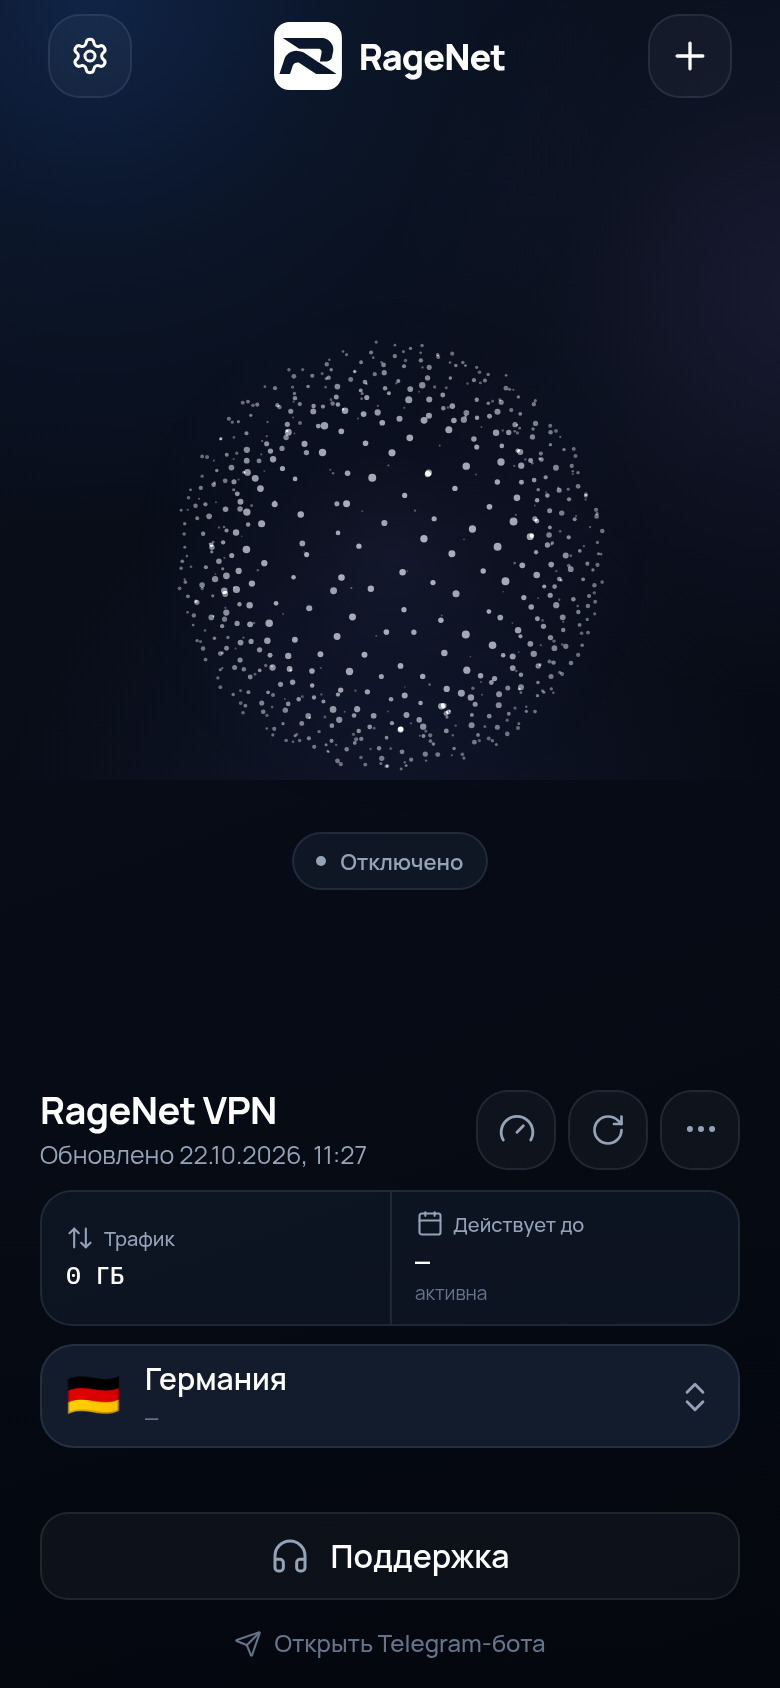
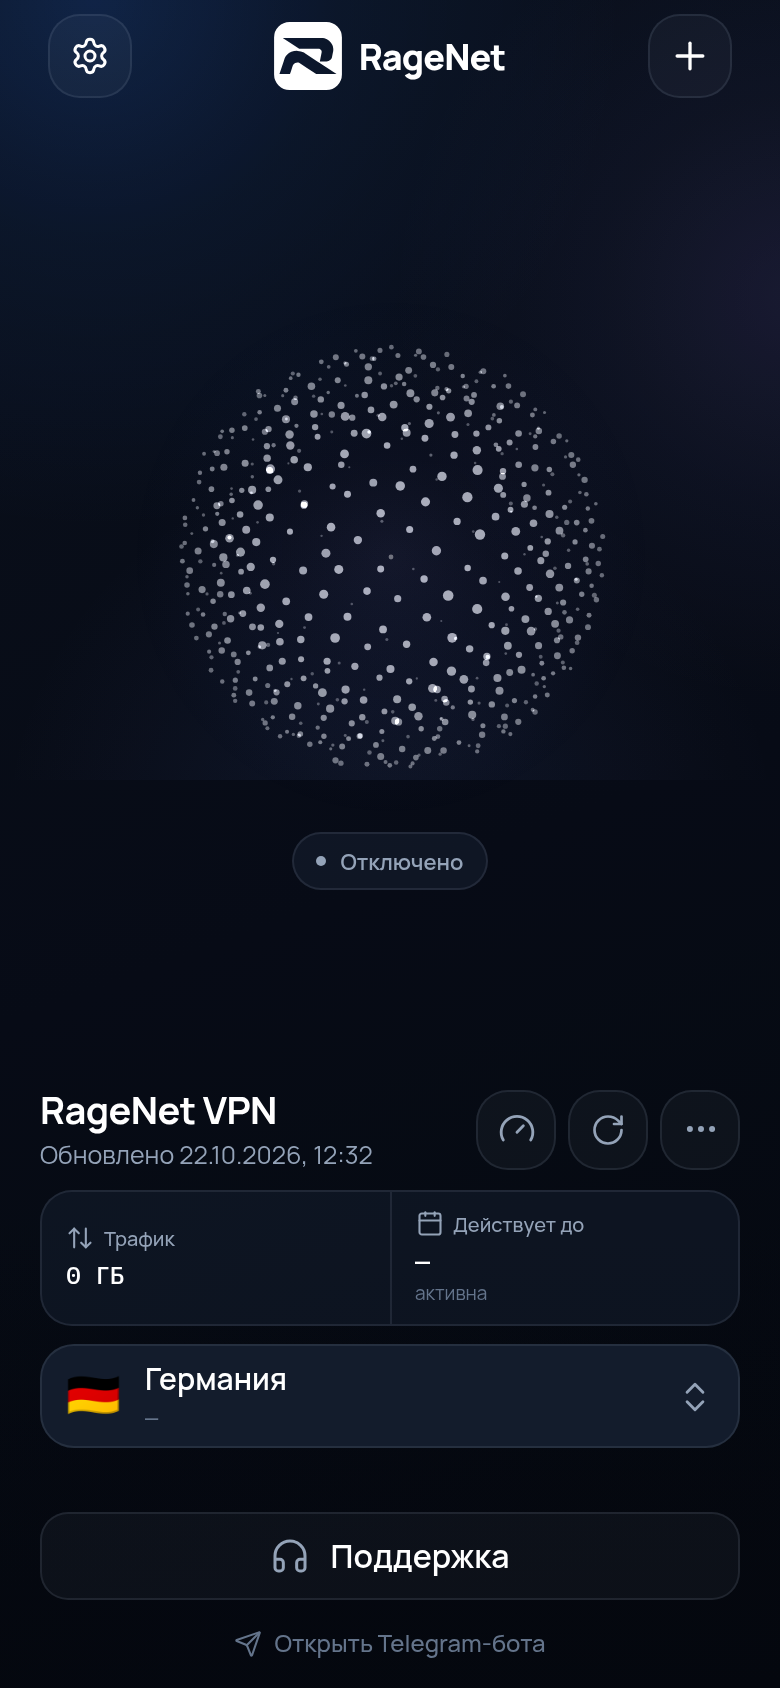
fix(ui): distinguish dragging from holding and add liquid ripples

Changed region(s): [[0.2154, 0.1848, 0.7692, 0.4621], [0.4308, 0.6777, 0.4923, 0.7085]]

diff --git a/packages/ui/src/components/particles/ParticleSphere.tsx b/packages/ui/src/components/particles/ParticleSphere.tsx
@@ -47,6 +47,10 @@ export function ParticleSphere({
   const pressing = useRef(false);
   const triggeredByHold = useRef(false);
   const pressStartedAt = useRef(0);
+  const stationaryStartedAt = useRef(0);
+  const stationaryAnchor = useRef({ x: 0, y: 0 });
+  const hasMoved = useRef(false);
+  const lastWaveAt = useRef(0);
   const holdTimer = useRef<ReturnType<typeof setTimeout> | null>(null);
   const chargeTimer = useRef<ReturnType<typeof setInterval> | null>(null);
   const tapTimer = useRef<ReturnType<typeof setTimeout> | null>(null);
@@ -149,7 +153,7 @@ export function ParticleSphere({
         if (!released) {
           released = true;
           stopHapticRamp();
-          simulation.setPointer(null, null);
+          simulation.clearPointer();
           simulation.setVibration(0);
           simulation.setGather(0);
           simulation.setBurstScale(1);
@@ -191,6 +195,15 @@ export function ParticleSphere({
     burstFrame.current = requestAnimationFrame(step);
   };
 
+  const armHold = () => {
+    if (holdTimer.current) clearTimeout(holdTimer.current);
+    holdTimer.current = setTimeout(() => {
+      if (!pressing.current || triggeredByHold.current) return;
+      triggeredByHold.current = true;
+      runBurst();
+    }, HOLD_MS);
+  };
+
   const beginPress = (event: GestureResponderEvent) => {
     if (burstStarted.current || state === 'connecting' || state === 'disconnecting') return;
     const { locationX, locationY } = event.nativeEvent;
@@ -200,6 +213,10 @@ export function ParticleSphere({
     pressing.current = true;
     triggeredByHold.current = false;
     pressStartedAt.current = Date.now();
+    stationaryStartedAt.current = Date.now();
+    stationaryAnchor.current = { x: locationX, y: locationY };
+    hasMoved.current = false;
+    lastWaveAt.current = 0;
     lastPoint.current = null;
     burstStarted.current = false;
     simulation.setGather(0);
@@ -214,20 +231,16 @@ export function ParticleSphere({
     startHapticRamp(HOLD_MS, 260);
     chargeTimer.current = setInterval(() => {
       if (!pressing.current) return;
-      const progress = Math.min(1, (Date.now() - pressStartedAt.current) / HOLD_MS);
+      const progress = Math.min(1, (Date.now() - stationaryStartedAt.current) / HOLD_MS);
       simulation.setCharge(progress);
-      simulation.setVibration(0.4 + 0.6 * progress ** 1.55);
+      simulation.setVibration(0.1 + 0.9 * progress ** 2.25);
       if (progress >= 1 || progress - reportedCharge.current >= 0.02) {
         reportedCharge.current = progress;
         onChargeProgress?.(progress);
       }
     }, 32);
 
-    holdTimer.current = setTimeout(() => {
-      if (!pressing.current || triggeredByHold.current) return;
-      triggeredByHold.current = true;
-      runBurst();
-    }, HOLD_MS);
+    armHold();
   };
 
   const updatePointer = (event: GestureResponderEvent) => {
@@ -237,12 +250,13 @@ export function ParticleSphere({
       pressing.current = false;
       triggeredByHold.current = false;
       resetCharge();
-      simulation.setPointer(null, null);
+      simulation.clearPointer();
       lastPoint.current = null;
+      hasMoved.current = true;
       return;
     }
 
-    if (!isInside(locationX, locationY)) return;
+    if (!pressing.current || !isInside(locationX, locationY)) return;
 
     const x = locationX / size;
     const y = locationY / size;
@@ -255,6 +269,29 @@ export function ParticleSphere({
       simulation.addSpin(dx, dy);
       simulation.addPointerEnergy(Math.min(0.35, pixelDistance / 45));
       if (pixelDistance > 2) dragHaptic(Math.min(1, pixelDistance / 14));
+
+      const anchorDistance = Math.hypot(
+        locationX - stationaryAnchor.current.x,
+        locationY - stationaryAnchor.current.y,
+      );
+      if (anchorDistance > 7) {
+        hasMoved.current = true;
+        stationaryAnchor.current = { x: locationX, y: locationY };
+        stationaryStartedAt.current = Date.now();
+        simulation.setCharge(0);
+        simulation.setVibration(0);
+        reportedCharge.current = 0;
+        onChargeProgress?.(0);
+        stopHapticRamp();
+        startHapticRamp(HOLD_MS, 260);
+        armHold();
+      }
+
+      const now = Date.now();
+      if (pixelDistance > 10 && now - lastWaveAt.current > 170) {
+        lastWaveAt.current = now;
+        simulation.triggerWave(x, y, 0.8);
+      }
     }
     lastPoint.current = { x, y };
   };
@@ -267,14 +304,14 @@ export function ParticleSphere({
     pressing.current = false;
     if (wasTriggered) {
       clearTimers();
-      simulation.setPointer(null, null);
+      simulation.clearPointer();
       return;
     }
     resetCharge();
-    simulation.setPointer(null, null);
+    simulation.clearPointer();
     lastPoint.current = null;
 
-    if (allowTap && !wasTriggered && elapsed <= TAP_MAX_MS) {
+    if (allowTap && !wasTriggered && !hasMoved.current && elapsed <= TAP_MAX_MS) {
       simulation.triggerWave(pressOrigin.current.x, pressOrigin.current.y);
       tapHaptic();
       // Let the wave read on the resting sphere before the state colour changes.

diff --git a/packages/particles/src/simulation.ts b/packages/particles/src/simulation.ts
@@ -57,10 +57,7 @@ export class ParticleSphereSimulation {
   private reactionTime = 0;
   private reactionStrength = 0;
   private reactionActive = false;
-  private waveAge = 0;
-  private waveX = 0.5;
-  private waveY = 0.5;
-  private waveStrength = 0;
+  private waves: { x: number; y: number; age: number; strength: number }[] = [];
   private gatherLevel = 0;
   private burstScale = 1;
   private vibrationLevel = 0;
@@ -209,10 +206,20 @@ export class ParticleSphereSimulation {
 
   /** Start a liquid ripple from a normalized point on the sphere. */
   triggerWave(x: number, y: number, strength = 1): void {
-    this.waveX = clamp(x, 0, 1);
-    this.waveY = clamp(y, 0, 1);
-    this.waveAge = 0;
-    this.waveStrength = clamp(strength, 0, 1.4);
+    this.waves.push({
+      x: clamp(x, 0, 1),
+      y: clamp(y, 0, 1),
+      age: 0,
+      strength: clamp(strength, 0, 1.4),
+    });
+    if (this.waves.length > 5) this.waves.shift();
+  }
+
+  /** Stop the old tap impression immediately when a finger leaves the surface. */
+  clearPointer(): void {
+    this.pointerTargetStrength = 0;
+    this.pointerStrength = 0;
+    this.pointerEnergy = 0;
   }
 
   setMode(mode: ParticleMode): void {
@@ -222,12 +229,8 @@ export class ParticleSphereSimulation {
   update(dt: number): void {
     const step = clamp(dt, 0, 0.05);
     this.time += step;
-    if (this.waveStrength > 0) {
-      this.waveAge += step;
-      if (this.waveAge >= 2.2) {
-        this.waveStrength = 0;
-      }
-    }
+    for (const wave of this.waves) wave.age += step;
+    this.waves = this.waves.filter((wave) => wave.age < 2.2);
     this.pointerStrength +=
       (this.pointerTargetStrength - this.pointerStrength) * Math.min(1, step * 14);
     this.pointerEnergy *= Math.exp(-5 * step);
@@ -350,12 +353,13 @@ export class ParticleSphereSimulation {
 
   /** Current wave data for a subtle one-front renderer overlay. */
   getWave(): { x: number; y: number; progress: number; strength: number } | null {
-    if (this.waveStrength <= 0.001) return null;
+    const wave = this.waves[this.waves.length - 1];
+    if (!wave) return null;
     return {
-      x: this.waveX,
-      y: this.waveY,
-      progress: clamp(this.waveAge / 2.2, 0, 1),
-      strength: this.waveStrength,
+      x: wave.x,
+      y: wave.y,
+      progress: clamp(wave.age / 2.2, 0, 1),
+      strength: wave.strength,
     };
   }
 
@@ -420,27 +424,28 @@ export class ParticleSphereSimulation {
       }
 
       let waveBoost = 0;
-      if (this.waveStrength > 0) {
-        const waveOriginX = center + (this.waveX * 2 - 1) * radius;
-        const waveOriginY = center + (this.waveY * 2 - 1) * radius;
+      for (const wave of this.waves) {
+        const waveOriginX = center + (wave.x * 2 - 1) * radius;
+        const waveOriginY = center + (wave.y * 2 - 1) * radius;
         const dx = screenX - waveOriginX;
         const dy = screenY - waveOriginY;
         const distance = Math.max(0.001, Math.hypot(dx, dy));
-        const progress = clamp(this.waveAge / 2.2, 0, 1);
+        const progress = clamp(wave.age / 2.2, 0, 1);
         const front = progress * size * 1.22;
-        const thickness = size * 0.12 + this.waveAge * size * 0.012;
+        const thickness = size * 0.12 + wave.age * size * 0.012;
         const angle = Math.atan2(dy, dx);
         const organicFront =
           1 +
           Math.sin(angle * 3.1 + this.time * 0.8) * 0.035 +
           Math.sin(angle * 6.7 - this.time * 0.6) * 0.018;
         const gaussian = Math.exp(-(((distance - front * organicFront) / thickness) ** 2));
-        const envelope = Math.min(1, this.waveAge / 0.28) * (1 - progress) ** 1.5;
-        const displacement = gaussian * envelope * size * 0.1 * this.waveStrength;
-        waveBoost = gaussian * envelope * this.waveStrength;
+        const envelope = Math.min(1, wave.age / 0.28) * (1 - progress) ** 1.5;
+        const displacement = gaussian * envelope * size * 0.075 * wave.strength;
+        waveBoost += gaussian * envelope * wave.strength;
         screenX += (dx / distance) * displacement;
         screenY += (dy / distance) * displacement;
       }
+      waveBoost = Math.min(1.2, waveBoost);
 
       const depth = clamp((z + 1) / 2, 0, 1);
 
@@ -458,7 +463,7 @@ export class ParticleSphereSimulation {
       if (this.vibrationLevel > 0.001) {
         const tremble = this.vibrationLevel * 5.2;
         const phase = this.phase[index];
-        const speed = 0.55 + this.vibrationLevel * 0.95;
+        const speed = 0.32 + this.vibrationLevel * 1.15;
         const tremorX =
           Math.sin(this.time * (10 + phase * 4) * speed + phase * 19) +
           Math.sin(this.time * (17 + phase * 3) * speed + phase * 7) * 0.35;

diff --git a/packages/ui/src/screens/SettingsScreen.tsx b/packages/ui/src/screens/SettingsScreen.tsx
@@ -72,8 +72,8 @@ export function SettingsScreen({ onClose }: SettingsScreenProps = {}) {
   const showToast = useAppStore((state) => state.showToast);
   const subscription = useAppStore((state) => state.subscription);
   const supportUrl = subscription?.meta.supportUrl ?? TELEGRAM_SUPPORT_URL;
-  const appVersion = '0.3.2';
-  const buildNumber = '5';
+  const appVersion = '0.3.3';
+  const buildNumber = '6';
 
   const openSupport = async () => {
     try {

diff --git a/packages/ui/src/components/DesktopShell.tsx b/packages/ui/src/components/DesktopShell.tsx
@@ -81,7 +81,7 @@ export function DesktopShell({ children, onAddKey }: DesktopShellProps) {
           </Pressable>
         </View>
 
-        <Text style={styles.version}>RageNet VPN · 0.3.2</Text>
+        <Text style={styles.version}>RageNet VPN · 0.3.3</Text>
       </View>
 
       <View style={styles.content}>{children}</View>

diff --git a/packages/ui/src/store/useAppStore.ts b/packages/ui/src/store/useAppStore.ts
@@ -109,7 +109,7 @@ export const DEVICE = {
   os: platformName(),
   osVersion: Platform.Version?.toString() ?? 'unknown',
   model: deviceModel(),
-  appVersion: Constants.expoConfig?.version ?? '0.3.2',
+  appVersion: Constants.expoConfig?.version ?? '0.3.3',
 };
 
 let vpnBridge: VpnBridge | null = null;

diff --git a/README.md b/README.md
@@ -2,7 +2,7 @@
 
 Кроссплатформенный клиент RageNet на React Native (мобильные) и Tauri + React Native Web (десктоп). Ядро — Xray-core через `libXray`, с встроенным TUN-инбаундом.
 
-> **Статус: Phase 0, версия 0.3.2.** Это рабочий UI-прототип и фундамент проекта, а не готовый VPN-клиент. Реальный туннель, подпись iOS и привилегированный desktop-helper ещё не подключены. План и даты — в [docs/ROADMAP.md](docs/ROADMAP.md), версии — в [docs/VERSIONING.md](docs/VERSIONING.md).
+> **Статус: Phase 0, версия 0.3.3.** Это рабочий UI-прототип и фундамент проекта, а не готовый VPN-клиент. Реальный туннель, подпись iOS и привилегированный desktop-helper ещё не подключены. План и даты — в [docs/ROADMAP.md](docs/ROADMAP.md), версии — в [docs/VERSIONING.md](docs/VERSIONING.md).
 
 ## Что уже работает
 

diff --git a/CHANGELOG.md b/CHANGELOG.md
@@ -7,6 +7,20 @@ and this project adheres to [Semantic Versioning](https://semver.org/).
 
 ## [Unreleased]
 
+## [0.3.3] - 2026-10-22
+
+### Changed
+
+- Dragging across the sphere no longer starts the hold/explosion; only a
+  stationary hold charges it.
+- Dragging emits travelling liquid ripples in addition to local particle
+  repulsion.
+- Leaving the sphere clears the pointer impression immediately.
+- The hold vibration now starts slowly and accelerates non-linearly near the
+  release.
+- Larger, fewer sphere particles and a visible 1.3× burst overshoot.
+- Layered haptic impacts for a deeper hold pulse.
+
 ## [0.3.2] - 2026-10-22
 
 ### Changed

diff --git a/docs/ROADMAP.md b/docs/ROADMAP.md
@@ -1,7 +1,7 @@
 # RageNet app — roadmap
 
 **Статус:** Phase 0 завершён, Phase 1–2 в работе
-**Версия:** 0.3.2
+**Версия:** 0.3.3
 **Дата обновления:** 21 октября 2026
 **Репозиторий:** `ragenet-app` (клиент; backend/cabinet — в основном репозитории RageNet VPN)
 
@@ -39,7 +39,7 @@
 
 ### Phase 0 — Foundation
 
-**Статус:** done · **Версия:** 0.3.2
+**Статус:** done · **Версия:** 0.3.3
 
 - Монорепо, дизайн-система, экраны.
 - Парсер подписок и сборщик Xray-конфига.

diff --git a/docs/PHASE0.md b/docs/PHASE0.md
@@ -1,6 +1,6 @@
 # Phase 0 — foundation
 
-**Status:** done · **App version:** 0.3.2 · **Next:** Phase 1 (Android VPN MVP)
+**Status:** done · **App version:** 0.3.3 · **Next:** Phase 1 (Android VPN MVP)
 
 See [ROADMAP.md](ROADMAP.md) for dates and [VERSIONING.md](VERSIONING.md) for
 release rules.

diff --git a/docs/BUILDS.md b/docs/BUILDS.md
@@ -94,8 +94,8 @@ Artifacts appear at the bottom of the run:
 ### Tag release
 
 ```bash
-git tag app-v0.3.2
-git push origin app-v0.3.2
+git tag app-v0.3.3
+git push origin app-v0.3.3
 ```
 
 Both workflows also run on `app-v*` tags. Artifacts are available on each run
